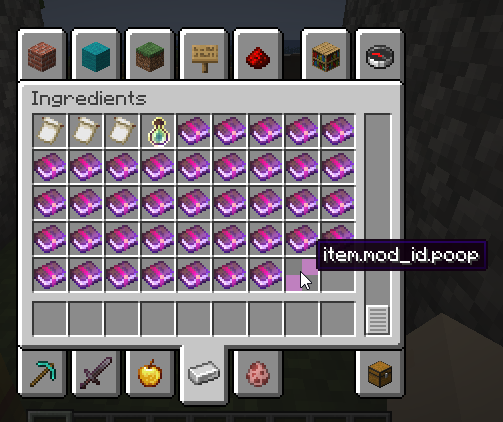
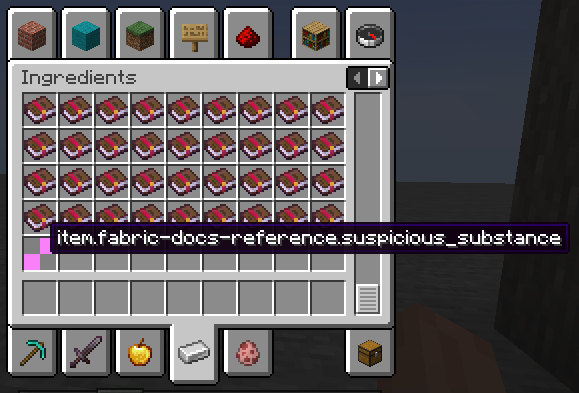
Add medium-zoom, finish item and item group guides.

diff --git a/.vitepress/theme/index.ts b/.vitepress/theme/index.ts
@@ -1,5 +1,8 @@
 import DefaultTheme from 'vitepress/theme'
-import { h } from 'vue'
+import { Theme, useRoute } from 'vitepress';
+import { h, nextTick, onMounted, watch } from 'vue'
+
+import mediumZoom from 'medium-zoom';
 
 import PageAuthorComponent from './components/PageAuthorComponent.vue'
 import BannerComponent from './components/BannerComponent.vue'
@@ -20,5 +23,18 @@ export default {
       'aside-outline-after': () => h(PageAuthorComponent),
       'layout-top': () => h(BannerComponent)
     })
-  }
-};
+  },
+  setup() {
+    const route = useRoute();
+    const initZoom = () => {
+      mediumZoom('.main img', { background: 'var(--vp-c-bg)' });
+    };
+    onMounted(() => {
+      initZoom();
+    });
+    watch(
+      () => route.path,
+      () => nextTick(() => initZoom())
+    );
+  },
+} satisfies Theme;

diff --git a/.vitepress/sidebars/develop.ts b/.vitepress/sidebars/develop.ts
@@ -70,6 +70,10 @@ export default [
         link: "/develop/items/custom-armor"
       },
       {
+        text: "develop.items.custom-item-groups",
+        link: "/develop/items/custom-item-groups"
+      },
+      {
         text: "develop.items.potions",
         link: "/develop/items/potions",
       }

diff --git a/reference/latest/src/main/java/com/example/docs/item/ModItems.java b/reference/latest/src/main/java/com/example/docs/item/ModItems.java
@@ -9,6 +9,7 @@ import net.minecraft.item.ItemGroups;
 import net.minecraft.item.SwordItem;
 import net.minecraft.registry.Registries;
 import net.minecraft.registry.Registry;
+import net.minecraft.registry.RegistryKey;
 import net.minecraft.util.Identifier;
 
 import net.fabricmc.fabric.api.item.v1.FabricItemSettings;
@@ -88,6 +89,19 @@ public class ModItems {
 		ItemGroupEvents.modifyEntriesEvent(ItemGroups.TOOLS)
 				.register((itemGroup) -> itemGroup.add(ModItems.GUIDITE_SWORD));
 		// :::8
+
+		// :::9
+		var groupRegistryKey = RegistryKey.of(Registries.ITEM_GROUP.getKey(), new Identifier(FabricDocsReference.MOD_ID, "item_group"));
+		ItemGroupEvents.modifyEntriesEvent(groupRegistryKey).register(itemGroup -> {
+			itemGroup.add(ModItems.SUSPICIOUS_SUBSTANCE);
+			itemGroup.add(ModItems.GUIDITE_SWORD);
+			itemGroup.add(ModItems.GUIDITE_HELMET);
+			itemGroup.add(ModItems.GUIDITE_BOOTS);
+			itemGroup.add(ModItems.GUIDITE_LEGGINGS);
+			itemGroup.add(ModItems.GUIDITE_CHESTPLATE);
+			// ...
+		});
+		// :::9
 
 		// :::3
 	}

diff --git a/reference/latest/src/main/java/com/example/docs/item/FabricDocsReferenceItems.java b/reference/latest/src/main/java/com/example/docs/item/FabricDocsReferenceItems.java
@@ -1,12 +1,35 @@
 package com.example.docs.item;
 
+import net.minecraft.item.ItemGroup;
+import net.minecraft.item.ItemStack;
+import net.minecraft.registry.Registries;
+import net.minecraft.registry.Registry;
+import net.minecraft.text.Text;
+import net.minecraft.util.Identifier;
+
 import net.fabricmc.api.ModInitializer;
+import net.fabricmc.fabric.api.itemgroup.v1.FabricItemGroup;
+
+import com.example.docs.FabricDocsReference;
 
 // :::1
 public class FabricDocsReferenceItems implements ModInitializer {
+	// :::1
+	// :::2
+	public static final ItemGroup MY_MOD_ITEMGROUP = FabricItemGroup.builder()
+			.icon(() -> new ItemStack(ModItems.GUIDITE_SWORD))
+			.displayName(Text.translatable("itemGroup.fabric_docs_reference"))
+			.build();
+	// :::2
+	// :::1
 	@Override
 	public void onInitialize() {
 		ModItems.initialize();
+		// :::1
+		// :::3
+		Registry.register(Registries.ITEM_GROUP, new Identifier(FabricDocsReference.MOD_ID, "item_group"), MY_MOD_ITEMGROUP);
+		// :::3
+		// :::1
 	}
 }
 // :::1

diff --git a/develop/items/custom-item-groups.md b/develop/items/custom-item-groups.md
@@ -7,7 +7,7 @@ authors:
 
 # Custom Item Groups
 
-In the last few pages - you've added quite a few items, it's time to consider making your own item group.
+Item groups are the tabs in the creative inventory that store items. You can create your own item group to store your items in a separate tab. This is pretty useful if your mod adds a lot of items and you want to keep them organized in one location for your players to easily access.
 
 ## Creating the Item Group
 
@@ -15,31 +15,17 @@ It's surprisingly easy to create an item group. Simply create a new static final
 
 I'll be using the "Guidite Sword" from the previous [Custom Tools](./custom-tools.md) page as the icon for the group.
 
-```java
-public static final ItemGroup MY_MOD_ITEMGROUP = FabricItemGroup.builder()
-  .icon(() -> new ItemStack(ModItems.GUIDITE_SWORD))
-  .displayName(Text.translatable("itemGroup.fabric_docs_reference"))
-  .build();
-```
+@[code transcludeWith=:::2](@/reference/latest/src/main/java/com/example/docs/item/FabricDocsReferenceItems.java)
 
 You will need to register your item group to the `ITEM_GROUP` registry for it to show up in-game.
 
-```java
-Registry.register(Registries.ITEM_GROUP, new Identifier(FabricDocsReference.MOD_ID, "item_group"), MY_MOD_ITEMGROUP);
-```
+@[code transcludeWith=:::3](@/reference/latest/src/main/java/com/example/docs/item/FabricDocsReferenceItems.java)
 
 ## Adding Items
 
 To add items to the group, you can use the modify item group event similarly to how you added your items to the vanilla item groups:
 
-```java
-var groupRegistryKey = RegistryKey.of(Registries.ITEM_GROUP.getKey(), new Identifier(FabricDocsReference.MOD_ID, "item_group"))
-ItemGroupEvents.modifyEntriesEvent(groupRegistryKey).register(itemGroup -> {
-    itemGroup.add(ModItems.SUSPICIOUS_SUBSTANCE);
-    itemGroup.add(ModItems.GUIDITE_SWORD);
-    // .. other items you've made
-});
-```
+@[code transcludeWith=:::9](@/reference/latest/src/main/java/com/example/docs/item/ModItems.java)
 
 <hr />
 
@@ -53,7 +39,7 @@ If you used `Text.translatable` for the `displayName` method of the item group b
 
 ```json
 {
-    "itemGroup.fabric_docs_reference": "Fabric Reference Mod Items"
+    "itemGroup.fabric_docs_reference": "Fabric Docs Reference Items"
 }
 ```
 

diff --git a/develop/items/first-item.md b/develop/items/first-item.md
@@ -111,6 +111,4 @@ Create the model JSON in the `assets/<mod id here>/models/item` folder, with the
 
 @[code](@/reference/latest/src/main/resources/assets/fabric-docs-reference/models/item/suspicious_substance.json)
 
-If you now reload the game (<kbd>F3</kbd> + <kbd>T</kbd>) you can now see your item texture!
-
 ![](/assets/develop/items/first_item_2.png)
